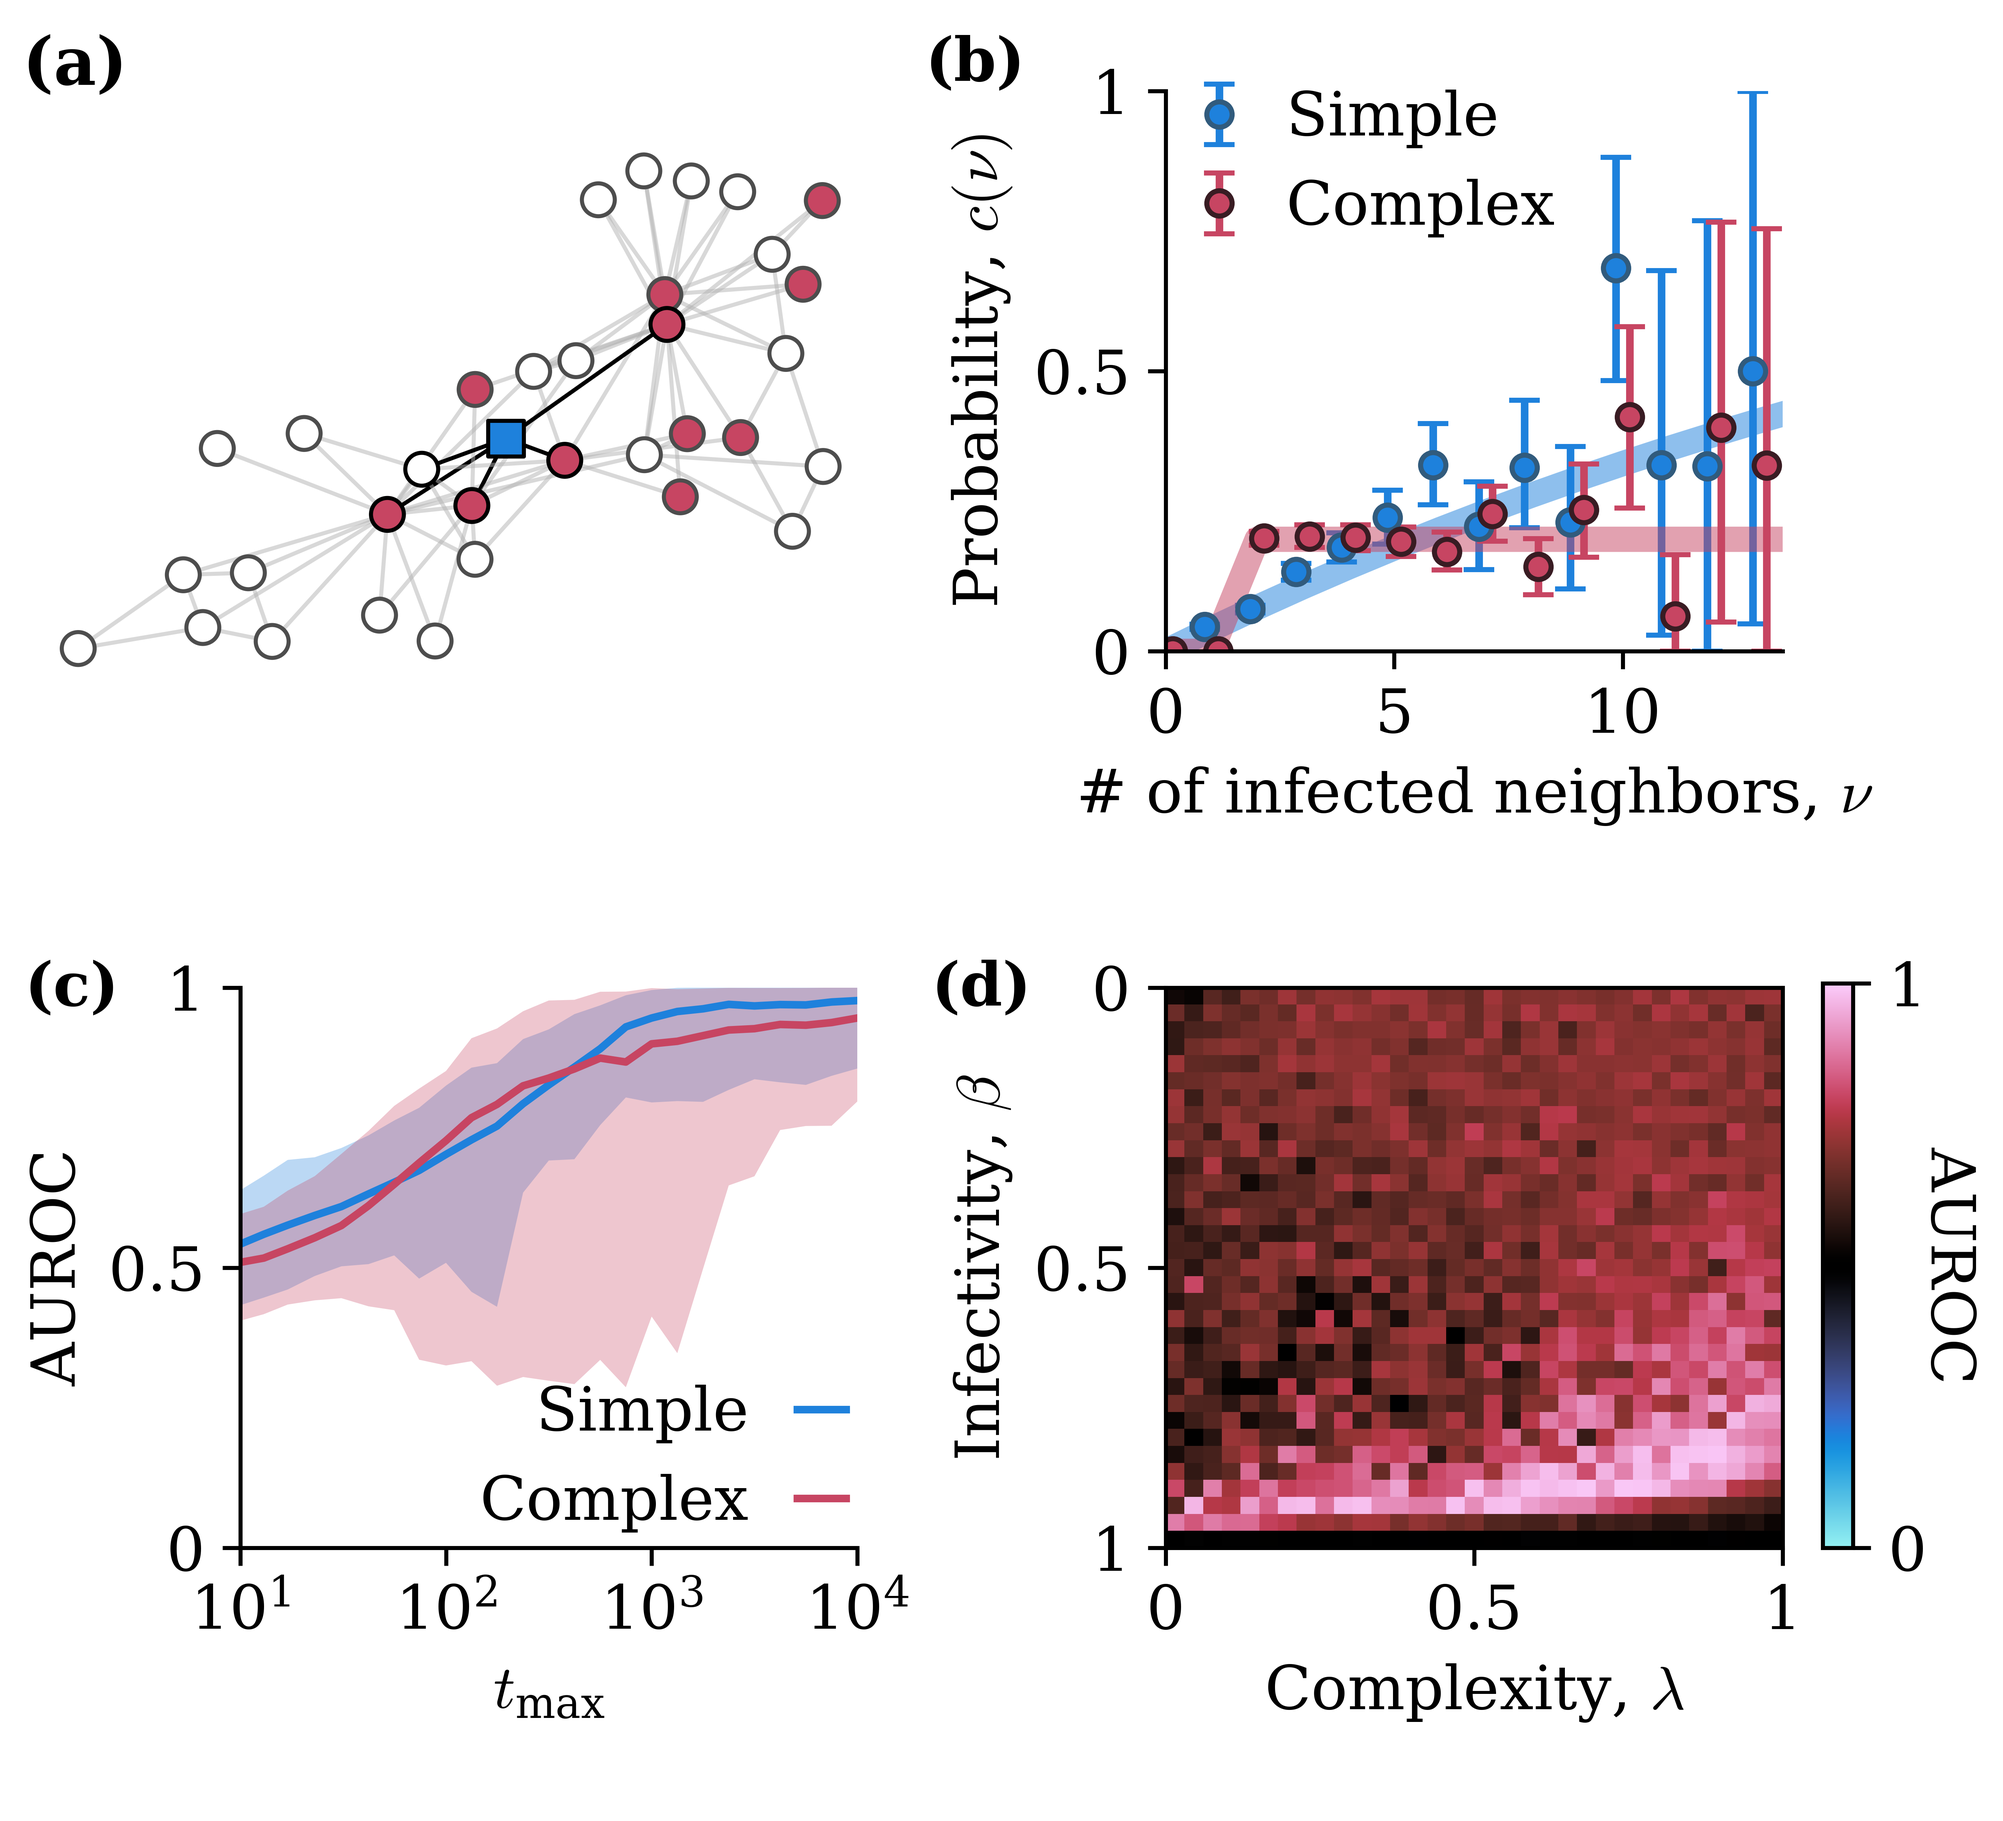
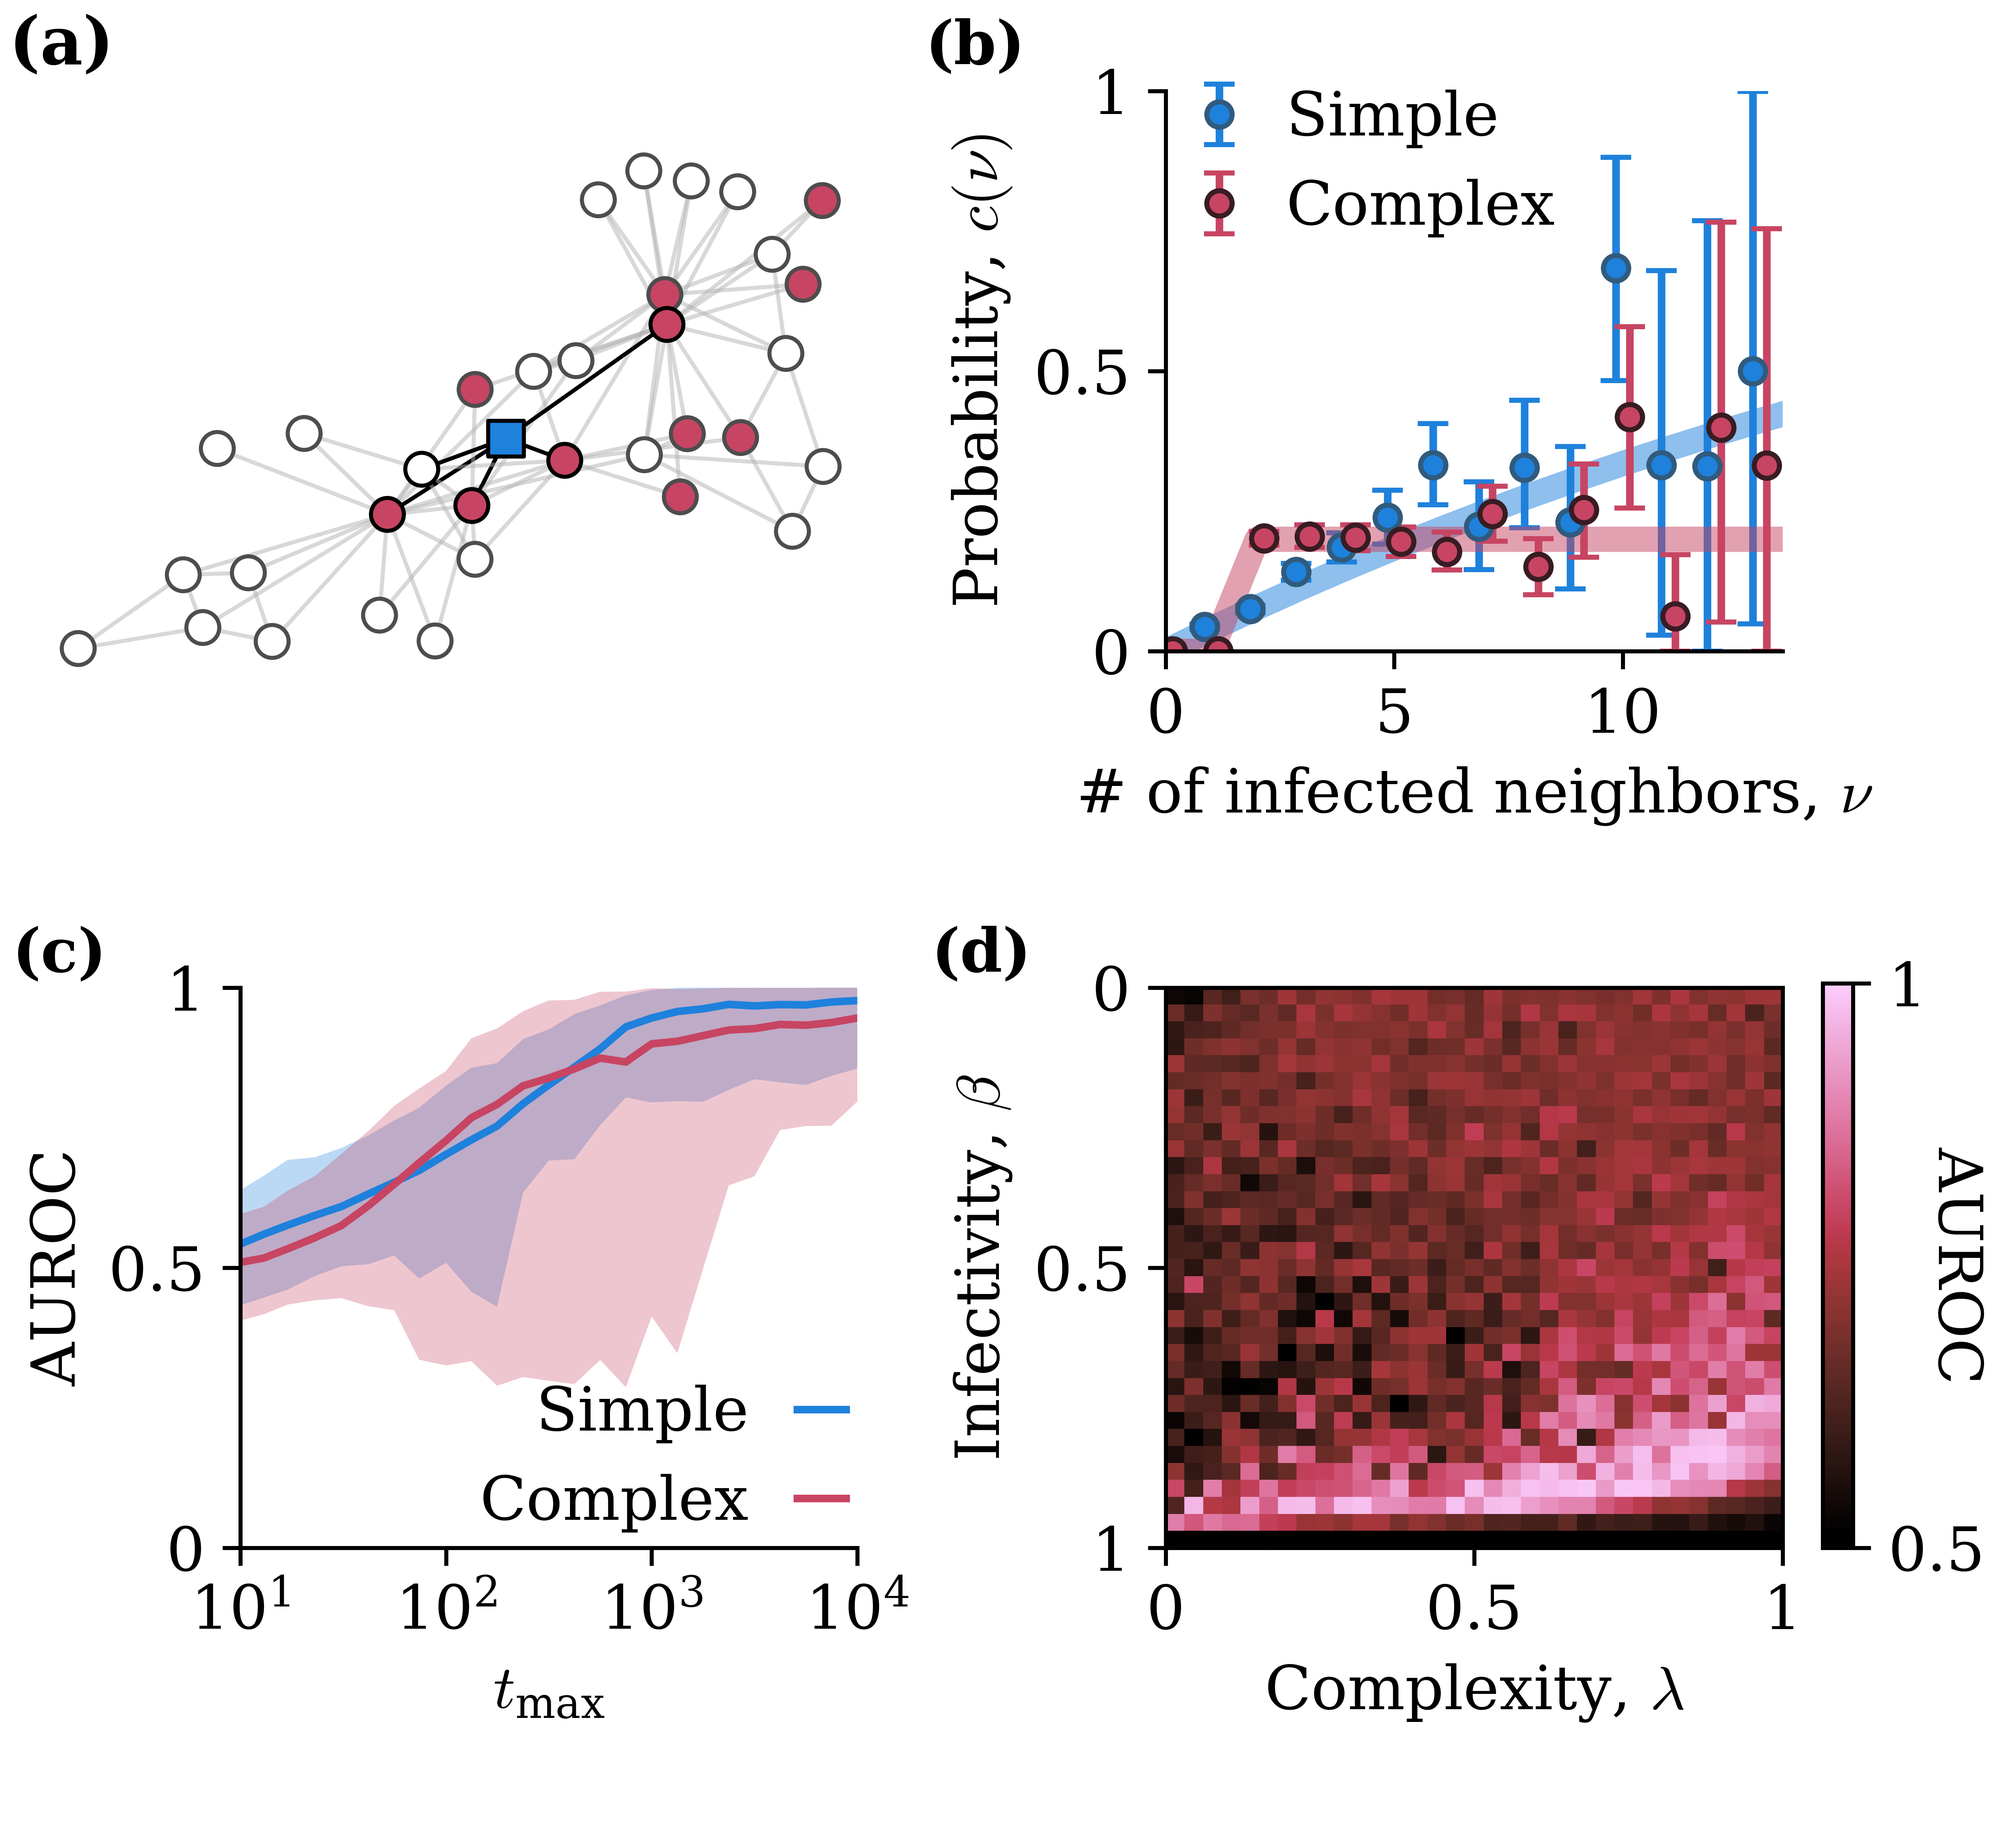
adjusted text label positions and AUROC cbar range

diff --git a/plot_fig1.py b/plot_fig1.py
@@ -35,8 +35,8 @@ ax1 = fig.add_subplot(gs[0])
 ax1.set_position([0, 0.4, 0.45, 0.75])
 
 ax1.text(
-    0.025,
-    0.775,
+    0.01,
+    0.79,
     "(a)",
     transform=ax1.transAxes,
     fontsize=13,
@@ -111,7 +111,7 @@ Panel 2:
 ax2 = fig.add_subplot(gs[1])
 ax2.text(
     -0.39,
-    1.1,
+    1.13,
     "(b)",
     transform=ax2.transAxes,
     fontsize=12,
@@ -203,8 +203,8 @@ Panel 3: recovery vs. tmax
 """
 ax3 = fig.add_subplot(gs[2])
 ax3.text(
-    -0.35,
-    1.05,
+    -0.37,
+    1.11,
     "(c)",
     transform=ax3.transAxes,
     fontsize=12,
@@ -280,7 +280,7 @@ Panel 4: heatmap of recover vs. beta and f
 ax4 = fig.add_subplot(gs[3])
 ax4.text(
     -0.38,
-    1.05,
+    1.11,
     "(d)",
     transform=ax4.transAxes,
     fontsize=12,
@@ -300,8 +300,8 @@ c = ax4.imshow(
     np.fliplr(to_imshow_orientation(mean_performance)),
     extent=(min(frac), max(frac), max(beta), min(beta)),
     aspect="auto",
-    cmap=cmap,
-    vmin=0,
+    cmap=fs.auroc_cmap,
+    vmin=0.5,
     vmax=1,
 )
 ax4.set_xlabel(r"Complexity, $\lambda$")
@@ -312,8 +312,8 @@ ax4.set_yticks([0, 0.5, 1], [0, 0.5, 1])
 
 cbar_ax = fig.add_axes([0.91, 0.15, 0.015, 0.31])  # x, y, width, height
 cbar = plt.colorbar(c, cax=cbar_ax)
-cbar.set_label(measure.upper(), fontsize=axislabel_fontsize, rotation=270, labelpad=10)
-cbar_ax.set_yticks([0, 1], [0, 1], fontsize=tick_fontsize)
+cbar.set_label(measure.upper(), fontsize=axislabel_fontsize, rotation=270, labelpad=0)
+cbar_ax.set_yticks([0.5, 1], [0.5, 1], fontsize=tick_fontsize)
 
 plt.savefig("Figures/Fig1/fig1.png", dpi=1000)
 plt.savefig("Figures/Fig1/fig1.pdf", dpi=1000)

diff --git a/fig_settings.py b/fig_settings.py
@@ -13,9 +13,11 @@ import matplotlib.pylab as pylab
 # color styling
 def set_colors(n_colors=2):
     global cmap
+    global auroc_cmap
     global pallette
     cmap = "cmr.redshift"
     qualitative_cmap = cmr.get_sub_cmap(cmap, 0.2, 0.8, N=n_colors)
+    auroc_cmap = cmr.get_sub_cmap(cmap, 0.5, 1)
 
     pallette = qualitative_cmap.colors
     mpl.rcParams["axes.prop_cycle"] = mpl.cycler(color=pallette)
